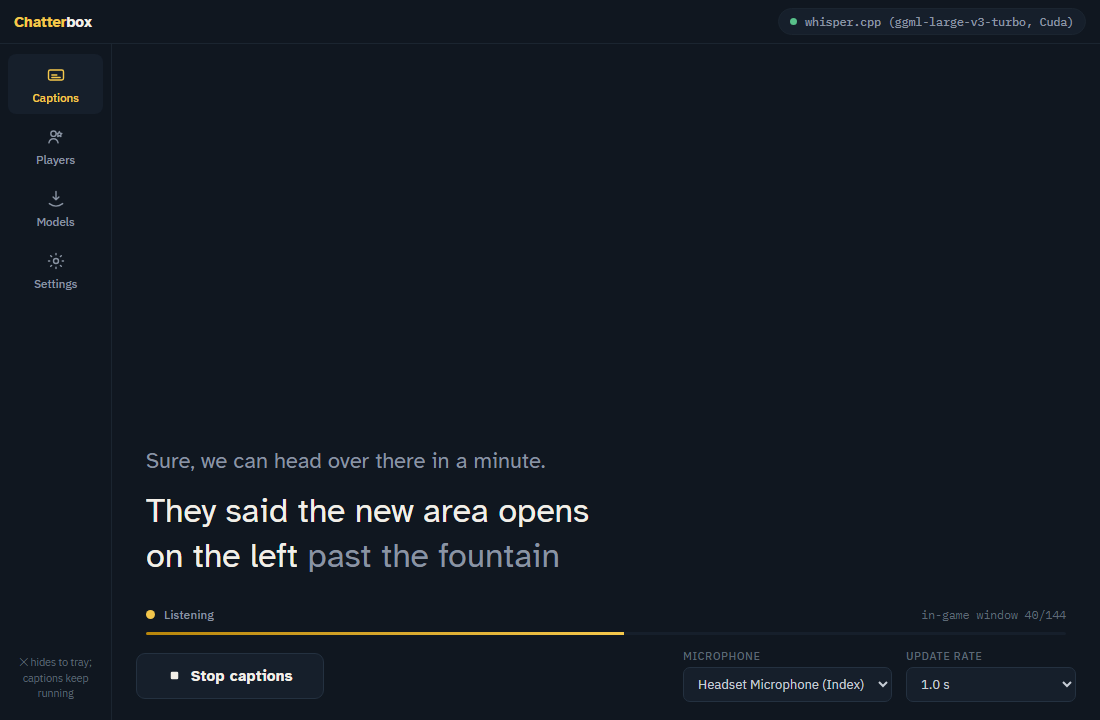
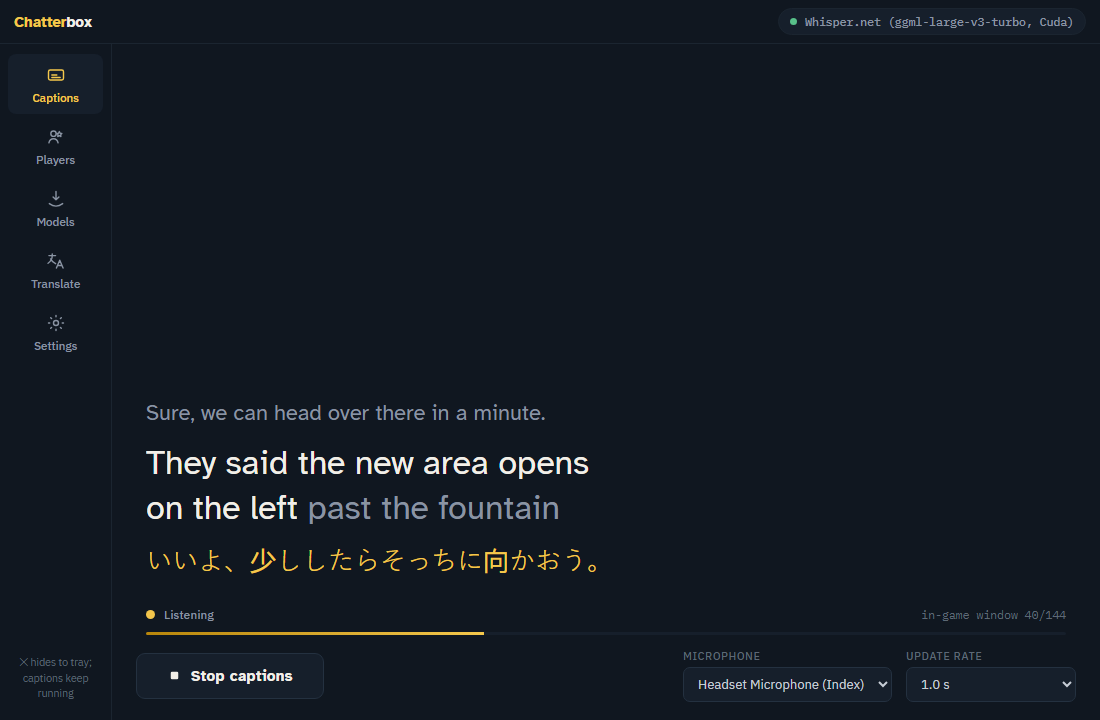
Screenshots for 1.7.1: Translate tab in the rail, translated caption line
The README screenshot now shows the current rail (with Translate), the
Whisper.net status pill and a translated sentence under the captions; a
second screenshot shows the Translate tab. Both are rendered from the
page's demo mode, which now stages the translation state too.

diff --git a/src/Chatterbox/wwwroot/app.js b/src/Chatterbox/wwwroot/app.js
@@ -584,7 +584,9 @@ if (DEMO) {
     intervalMs: 1000, typingIndicator: true, autoStartEnabled: true,
     autoStartFriends: [{ id: 'usr_2fa4aaaa-1111-2222-3333-4444555591c3', name: 'Nova_Signs' }, { id: '', name: 'Moth_man42' }],
     whisperAvailable: true, whisperModelName: 'ggml-large-v3-turbo.bin', whisperModels: ['ggml-large-v3-turbo.bin'],
-    whisperModelSetting: '', vadAvailable: true, parakeetAvailable: true, modelDir: '' } }));
+    whisperModelSetting: '', vadAvailable: true, parakeetAvailable: true, modelDir: '',
+    translateEnabled: true, translateTarget: 'ja', translateShowOriginal: false, translateReady: true, translateGpu: true,
+    translateLanguages: [{ code: 'ja', name: 'Japanese' }, { code: 'ko', name: 'Korean' }, { code: 'es', name: 'Spanish' }, { code: 'de', name: 'German' }] } }));
   onMessage(JSON.stringify({ type: 'sttPlayers', payload: { game: true, log: 'writing', world: 'wrld_demo', worldName: 'The Black Cat', players: [
     { id: 'usr_c48faaaa-0000-0000-0000-00000000a0c8', name: 'PixelFerret' },
     { id: 'usr_2fa4aaaa-1111-2222-3333-4444555591c3', name: 'Nova_Signs' },
@@ -595,8 +597,11 @@ if (DEMO) {
     { id: 'large-v3-turbo-q5', displayName: 'Whisper large-v3-turbo (q5)', sizeBytes: 574e6, license: 'MIT', attribution: 'OpenAI / whisper.cpp', installed: false, active: false, isVad: false },
     { id: 'tiny.en-q5', displayName: 'Whisper tiny.en (q5)', sizeBytes: 32e6, license: 'MIT', attribution: 'OpenAI / whisper.cpp', installed: false, active: false, isVad: false },
     { id: 'vad', displayName: 'Silero VAD v6.2.0', sizeBytes: 885098, license: 'MIT', attribution: 'snakers4 / ggml-org', installed: true, active: false, isVad: true },
-    { id: 'cuda-gpu-pack', displayName: 'GPU acceleration for Whisper (CUDA)', sizeBytes: 142586522, license: 'MIT', attribution: 'whisper.cpp CUDA build, packaged by Whisper.net', installed: false, active: false, isVad: false }] } }));
-  onMessage(JSON.stringify({ type: 'sttState', payload: { running: true, engineName: 'whisper.cpp (ggml-large-v3-turbo, Cuda)' } }));
+    { id: 'hy-mt2-1.8b', displayName: 'Hy-MT2 1.8B translation model (Q4)', sizeBytes: 1133080448, license: 'Apache-2.0', attribution: 'Tencent Hunyuan Hy-MT2 1.8B (Apache-2.0), GGUF by Tencent', installed: true, active: false, isVad: false, kind: 'translation' },
+    { id: 'cuda-gpu-pack', displayName: 'GPU acceleration for Whisper (CUDA)', sizeBytes: 142586522, license: 'MIT', attribution: 'whisper.cpp CUDA build, packaged by Whisper.net', installed: false, active: false, isVad: false },
+    { id: 'translate-engine', displayName: 'Translation engine (llama.cpp, CPU)', sizeBytes: 36337071, license: 'MIT', attribution: 'llama.cpp (MIT, ggml-org), packaged by LLamaSharp (MIT)', installed: true, active: false, isVad: false, kind: 'pack' },
+    { id: 'translate-gpu-pack', displayName: 'GPU acceleration for translation (Vulkan)', sizeBytes: 20194168, license: 'MIT', attribution: 'llama.cpp Vulkan build (MIT, ggml-org), packaged by LLamaSharp (MIT)', installed: true, active: false, isVad: false, kind: 'pack' }] } }));
+  onMessage(JSON.stringify({ type: 'sttState', payload: { running: true, engineName: 'Whisper.net (ggml-large-v3-turbo, Cuda)' } }));
   onMessage(JSON.stringify({ type: 'sttPartial', payload: { committed: 'They said the new area opens on the left', pending: 'past the fountain' } }));
   onMessage(JSON.stringify({ type: 'sttSpeech', payload: { active: true } }));
   onMessage(JSON.stringify({ type: 'sttMeter', payload: { level: 0.52 } }));
@@ -604,11 +609,14 @@ if (DEMO) {
   onMessage(JSON.stringify({ type: 'sttModelProgress', payload: { id: 'large-v3-turbo-q5', received: 368e6, total: 574e6 } }));
   $('capOlder').textContent = 'Sure, we can head over there in a minute.';
   $('capOlder').hidden = false;
+  onMessage(JSON.stringify({ type: 'sttTranslated', payload: { original: 'Sure, we can head over there in a minute.', translated: 'いいよ、少ししたらそっちに向かおう。' } }));
   onMessage(JSON.stringify({ type: 'sttUpdate', payload: { state: 'available', current: '1.6.0', configured: true, checkAtStartup: true,
     latest: '1.6.1', title: 'Chatterbox 1.6.1', pageUrl: '', size: 32.6e6, received: 0, total: 0,
     notes: 'Live local speech-to-text captions for the VRChat chatbox. Windows 10/11 x64.\nSHA-256: 0000000000000000000000000000000000000000000000000000000000000000' } }));
-  onMessage(JSON.stringify({ type: 'sttDocs', payload: { version: '1.2.0',
+  onMessage(JSON.stringify({ type: 'sttDocs', payload: { version: '1.7.1',
     readme: '# Chatterbox\n\nLive captions for VRChat. (Demo preview text.)',
     license: 'MIT License. (Demo preview text.)',
     notice: 'Third-party notices. (Demo preview text.)' } }));
+  const demoView = new URLSearchParams(location.search).get('view');
+  if (demoView) showView(demoView);
 }

diff --git a/README.md b/README.md
@@ -115,6 +115,8 @@ engine is missing, captions simply run untranslated and a toast says why.
 The recognition engine and Whisper model selectors live on the Models
 screen under **In use** (moved there from Settings in 1.7.0).
 
+![The Translate tab](docs/screenshot-translate.png)
+
 The model was chosen by a timed comparison of the small open-weight
 translators (`docs/TRANSLATION_BENCH-2026-10-08.md`): the fastest one that
 was also accurate. The picker lists the languages it does best.
